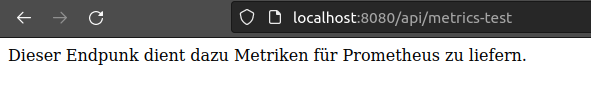
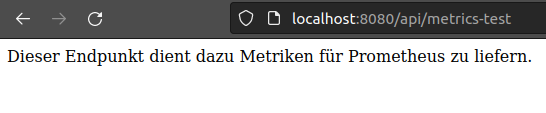
fix spelling mistake and add image

diff --git a/api/src/main/java/com/ferme/api/controller/Controller.java b/api/src/main/java/com/ferme/api/controller/Controller.java
@@ -30,7 +30,7 @@ public class Controller {
     @GetMapping("/metrics-test")
     public String metricsTest() {
         counter.increment();
-        return "Dieser Endpunk dient dazu Metriken für Prometheus zu liefern.";
+        return "Dieser Endpunkt dient dazu Metriken für Prometheus zu liefern.";
     }
 
     @Timed(value = "api.error_requests", description = "Error request response time")
